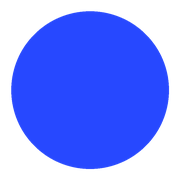
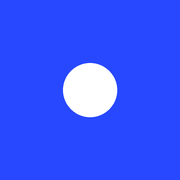
Icona iPhone blu e pulizia

diff --git a/404.html b/404.html
@@ -15,9 +15,9 @@
 <meta property="og:image" content="https://miriamfelici.com/assets/og.jpg?v=2">
 <meta name="twitter:card" content="summary_large_image">
 <meta name="theme-color" content="#ffffff">
-<link rel="icon" href="/favicon.svg?v=2" type="image/svg+xml">
-<link rel="icon" href="/favicon.png?v=2" type="image/png" sizes="32x32">
-<link rel="apple-touch-icon" href="/apple-touch-icon.png?v=2">
+<link rel="icon" href="/favicon.svg?v=3" type="image/svg+xml">
+<link rel="icon" href="/favicon.png?v=3" type="image/png" sizes="32x32">
+<link rel="apple-touch-icon" href="/apple-touch-icon.png?v=3">
 <link rel="preload" href="/assets/fonts/aspekta.woff2" as="font" type="font/woff2" crossorigin>
 <style>
 @font-face{font-family:"Aspekta";src:url(/assets/fonts/aspekta.woff2) format("woff2");font-weight:100 900;font-display:swap}

diff --git a/about/index.html b/about/index.html
@@ -15,9 +15,9 @@
 <meta property="og:image" content="https://miriamfelici.com/assets/og.jpg?v=2">
 <meta name="twitter:card" content="summary_large_image">
 <meta name="theme-color" content="#ffffff">
-<link rel="icon" href="/favicon.svg?v=2" type="image/svg+xml">
-<link rel="icon" href="/favicon.png?v=2" type="image/png" sizes="32x32">
-<link rel="apple-touch-icon" href="/apple-touch-icon.png?v=2">
+<link rel="icon" href="/favicon.svg?v=3" type="image/svg+xml">
+<link rel="icon" href="/favicon.png?v=3" type="image/png" sizes="32x32">
+<link rel="apple-touch-icon" href="/apple-touch-icon.png?v=3">
 <link rel="preload" href="/assets/fonts/aspekta.woff2" as="font" type="font/woff2" crossorigin>
 <style>
 @font-face{font-family:"Aspekta";src:url(/assets/fonts/aspekta.woff2) format("woff2");font-weight:100 900;font-display:swap}

diff --git a/index.html b/index.html
@@ -16,9 +16,9 @@
 <meta property="og:image" content="https://miriamfelici.com/assets/og.jpg?v=2">
 <meta name="twitter:card" content="summary_large_image">
 <meta name="theme-color" content="#ffffff">
-<link rel="icon" href="/favicon.svg?v=2" type="image/svg+xml">
-<link rel="icon" href="/favicon.png?v=2" type="image/png" sizes="32x32">
-<link rel="apple-touch-icon" href="/apple-touch-icon.png?v=2">
+<link rel="icon" href="/favicon.svg?v=3" type="image/svg+xml">
+<link rel="icon" href="/favicon.png?v=3" type="image/png" sizes="32x32">
+<link rel="apple-touch-icon" href="/apple-touch-icon.png?v=3">
 <link rel="preload" href="/assets/fonts/aspekta.woff2" as="font" type="font/woff2" crossorigin>
 <style>
 @font-face{font-family:"Aspekta";src:url(/assets/fonts/aspekta.woff2) format("woff2");font-weight:100 900;font-display:swap}

diff --git a/privacy/index.html b/privacy/index.html
@@ -15,9 +15,9 @@
 <meta property="og:image" content="https://miriamfelici.com/assets/og.jpg?v=2">
 <meta name="twitter:card" content="summary_large_image">
 <meta name="theme-color" content="#ffffff">
-<link rel="icon" href="/favicon.svg?v=2" type="image/svg+xml">
-<link rel="icon" href="/favicon.png?v=2" type="image/png" sizes="32x32">
-<link rel="apple-touch-icon" href="/apple-touch-icon.png?v=2">
+<link rel="icon" href="/favicon.svg?v=3" type="image/svg+xml">
+<link rel="icon" href="/favicon.png?v=3" type="image/png" sizes="32x32">
+<link rel="apple-touch-icon" href="/apple-touch-icon.png?v=3">
 <link rel="preload" href="/assets/fonts/aspekta.woff2" as="font" type="font/woff2" crossorigin>
 <style>
 @font-face{font-family:"Aspekta";src:url(/assets/fonts/aspekta.woff2) format("woff2");font-weight:100 900;font-display:swap}

diff --git a/projects/centre-lgtbi/index.html b/projects/centre-lgtbi/index.html
@@ -15,9 +15,9 @@
 <meta property="og:image" content="https://miriamfelici.com/assets/og.jpg?v=2">
 <meta name="twitter:card" content="summary_large_image">
 <meta name="theme-color" content="#ffffff">
-<link rel="icon" href="/favicon.svg?v=2" type="image/svg+xml">
-<link rel="icon" href="/favicon.png?v=2" type="image/png" sizes="32x32">
-<link rel="apple-touch-icon" href="/apple-touch-icon.png?v=2">
+<link rel="icon" href="/favicon.svg?v=3" type="image/svg+xml">
+<link rel="icon" href="/favicon.png?v=3" type="image/png" sizes="32x32">
+<link rel="apple-touch-icon" href="/apple-touch-icon.png?v=3">
 <link rel="preload" href="/assets/fonts/aspekta.woff2" as="font" type="font/woff2" crossorigin>
 <style>
 @font-face{font-family:"Aspekta";src:url(/assets/fonts/aspekta.woff2) format("woff2");font-weight:100 900;font-display:swap}

diff --git a/projects/efm/index.html b/projects/efm/index.html
@@ -15,9 +15,9 @@
 <meta property="og:image" content="https://miriamfelici.com/assets/og.jpg?v=2">
 <meta name="twitter:card" content="summary_large_image">
 <meta name="theme-color" content="#ffffff">
-<link rel="icon" href="/favicon.svg?v=2" type="image/svg+xml">
-<link rel="icon" href="/favicon.png?v=2" type="image/png" sizes="32x32">
-<link rel="apple-touch-icon" href="/apple-touch-icon.png?v=2">
+<link rel="icon" href="/favicon.svg?v=3" type="image/svg+xml">
+<link rel="icon" href="/favicon.png?v=3" type="image/png" sizes="32x32">
+<link rel="apple-touch-icon" href="/apple-touch-icon.png?v=3">
 <link rel="preload" href="/assets/fonts/aspekta.woff2" as="font" type="font/woff2" crossorigin>
 <style>
 @font-face{font-family:"Aspekta";src:url(/assets/fonts/aspekta.woff2) format("woff2");font-weight:100 900;font-display:swap}

diff --git a/projects/globe/index.html b/projects/globe/index.html
@@ -15,9 +15,9 @@
 <meta property="og:image" content="https://miriamfelici.com/assets/og.jpg?v=2">
 <meta name="twitter:card" content="summary_large_image">
 <meta name="theme-color" content="#ffffff">
-<link rel="icon" href="/favicon.svg?v=2" type="image/svg+xml">
-<link rel="icon" href="/favicon.png?v=2" type="image/png" sizes="32x32">
-<link rel="apple-touch-icon" href="/apple-touch-icon.png?v=2">
+<link rel="icon" href="/favicon.svg?v=3" type="image/svg+xml">
+<link rel="icon" href="/favicon.png?v=3" type="image/png" sizes="32x32">
+<link rel="apple-touch-icon" href="/apple-touch-icon.png?v=3">
 <link rel="preload" href="/assets/fonts/aspekta.woff2" as="font" type="font/woff2" crossorigin>
 <style>
 @font-face{font-family:"Aspekta";src:url(/assets/fonts/aspekta.woff2) format("woff2");font-weight:100 900;font-display:swap}

diff --git a/projects/hubquarter/index.html b/projects/hubquarter/index.html
@@ -15,9 +15,9 @@
 <meta property="og:image" content="https://miriamfelici.com/assets/og.jpg?v=2">
 <meta name="twitter:card" content="summary_large_image">
 <meta name="theme-color" content="#ffffff">
-<link rel="icon" href="/favicon.svg?v=2" type="image/svg+xml">
-<link rel="icon" href="/favicon.png?v=2" type="image/png" sizes="32x32">
-<link rel="apple-touch-icon" href="/apple-touch-icon.png?v=2">
+<link rel="icon" href="/favicon.svg?v=3" type="image/svg+xml">
+<link rel="icon" href="/favicon.png?v=3" type="image/png" sizes="32x32">
+<link rel="apple-touch-icon" href="/apple-touch-icon.png?v=3">
 <link rel="preload" href="/assets/fonts/aspekta.woff2" as="font" type="font/woff2" crossorigin>
 <style>
 @font-face{font-family:"Aspekta";src:url(/assets/fonts/aspekta.woff2) format("woff2");font-weight:100 900;font-display:swap}

diff --git a/projects/lia/index.html b/projects/lia/index.html
@@ -15,9 +15,9 @@
 <meta property="og:image" content="https://miriamfelici.com/assets/og.jpg?v=2">
 <meta name="twitter:card" content="summary_large_image">
 <meta name="theme-color" content="#ffffff">
-<link rel="icon" href="/favicon.svg?v=2" type="image/svg+xml">
-<link rel="icon" href="/favicon.png?v=2" type="image/png" sizes="32x32">
-<link rel="apple-touch-icon" href="/apple-touch-icon.png?v=2">
+<link rel="icon" href="/favicon.svg?v=3" type="image/svg+xml">
+<link rel="icon" href="/favicon.png?v=3" type="image/png" sizes="32x32">
+<link rel="apple-touch-icon" href="/apple-touch-icon.png?v=3">
 <link rel="preload" href="/assets/fonts/aspekta.woff2" as="font" type="font/woff2" crossorigin>
 <style>
 @font-face{font-family:"Aspekta";src:url(/assets/fonts/aspekta.woff2) format("woff2");font-weight:100 900;font-display:swap}

diff --git a/projects/liceu/index.html b/projects/liceu/index.html
@@ -15,9 +15,9 @@
 <meta property="og:image" content="https://miriamfelici.com/assets/og.jpg?v=2">
 <meta name="twitter:card" content="summary_large_image">
 <meta name="theme-color" content="#ffffff">
-<link rel="icon" href="/favicon.svg?v=2" type="image/svg+xml">
-<link rel="icon" href="/favicon.png?v=2" type="image/png" sizes="32x32">
-<link rel="apple-touch-icon" href="/apple-touch-icon.png?v=2">
+<link rel="icon" href="/favicon.svg?v=3" type="image/svg+xml">
+<link rel="icon" href="/favicon.png?v=3" type="image/png" sizes="32x32">
+<link rel="apple-touch-icon" href="/apple-touch-icon.png?v=3">
 <link rel="preload" href="/assets/fonts/aspekta.woff2" as="font" type="font/woff2" crossorigin>
 <style>
 @font-face{font-family:"Aspekta";src:url(/assets/fonts/aspekta.woff2) format("woff2");font-weight:100 900;font-display:swap}

diff --git a/projects/memoraiz/index.html b/projects/memoraiz/index.html
@@ -15,9 +15,9 @@
 <meta property="og:image" content="https://miriamfelici.com/assets/og.jpg?v=2">
 <meta name="twitter:card" content="summary_large_image">
 <meta name="theme-color" content="#ffffff">
-<link rel="icon" href="/favicon.svg?v=2" type="image/svg+xml">
-<link rel="icon" href="/favicon.png?v=2" type="image/png" sizes="32x32">
-<link rel="apple-touch-icon" href="/apple-touch-icon.png?v=2">
+<link rel="icon" href="/favicon.svg?v=3" type="image/svg+xml">
+<link rel="icon" href="/favicon.png?v=3" type="image/png" sizes="32x32">
+<link rel="apple-touch-icon" href="/apple-touch-icon.png?v=3">
 <link rel="preload" href="/assets/fonts/aspekta.woff2" as="font" type="font/woff2" crossorigin>
 <style>
 @font-face{font-family:"Aspekta";src:url(/assets/fonts/aspekta.woff2) format("woff2");font-weight:100 900;font-display:swap}

diff --git a/projects/myspot/index.html b/projects/myspot/index.html
@@ -15,9 +15,9 @@
 <meta property="og:image" content="https://miriamfelici.com/assets/og.jpg?v=2">
 <meta name="twitter:card" content="summary_large_image">
 <meta name="theme-color" content="#ffffff">
-<link rel="icon" href="/favicon.svg?v=2" type="image/svg+xml">
-<link rel="icon" href="/favicon.png?v=2" type="image/png" sizes="32x32">
-<link rel="apple-touch-icon" href="/apple-touch-icon.png?v=2">
+<link rel="icon" href="/favicon.svg?v=3" type="image/svg+xml">
+<link rel="icon" href="/favicon.png?v=3" type="image/png" sizes="32x32">
+<link rel="apple-touch-icon" href="/apple-touch-icon.png?v=3">
 <link rel="preload" href="/assets/fonts/aspekta.woff2" as="font" type="font/woff2" crossorigin>
 <style>
 @font-face{font-family:"Aspekta";src:url(/assets/fonts/aspekta.woff2) format("woff2");font-weight:100 900;font-display:swap}
